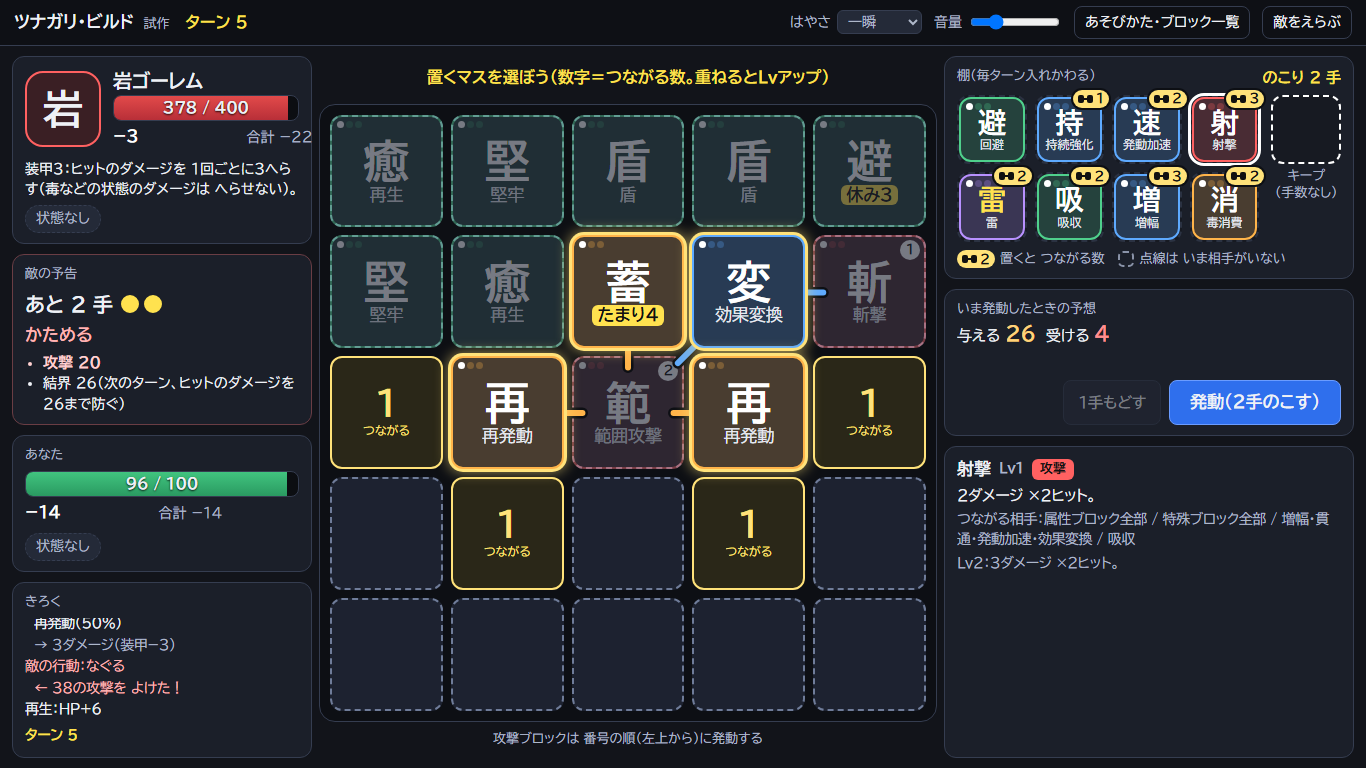
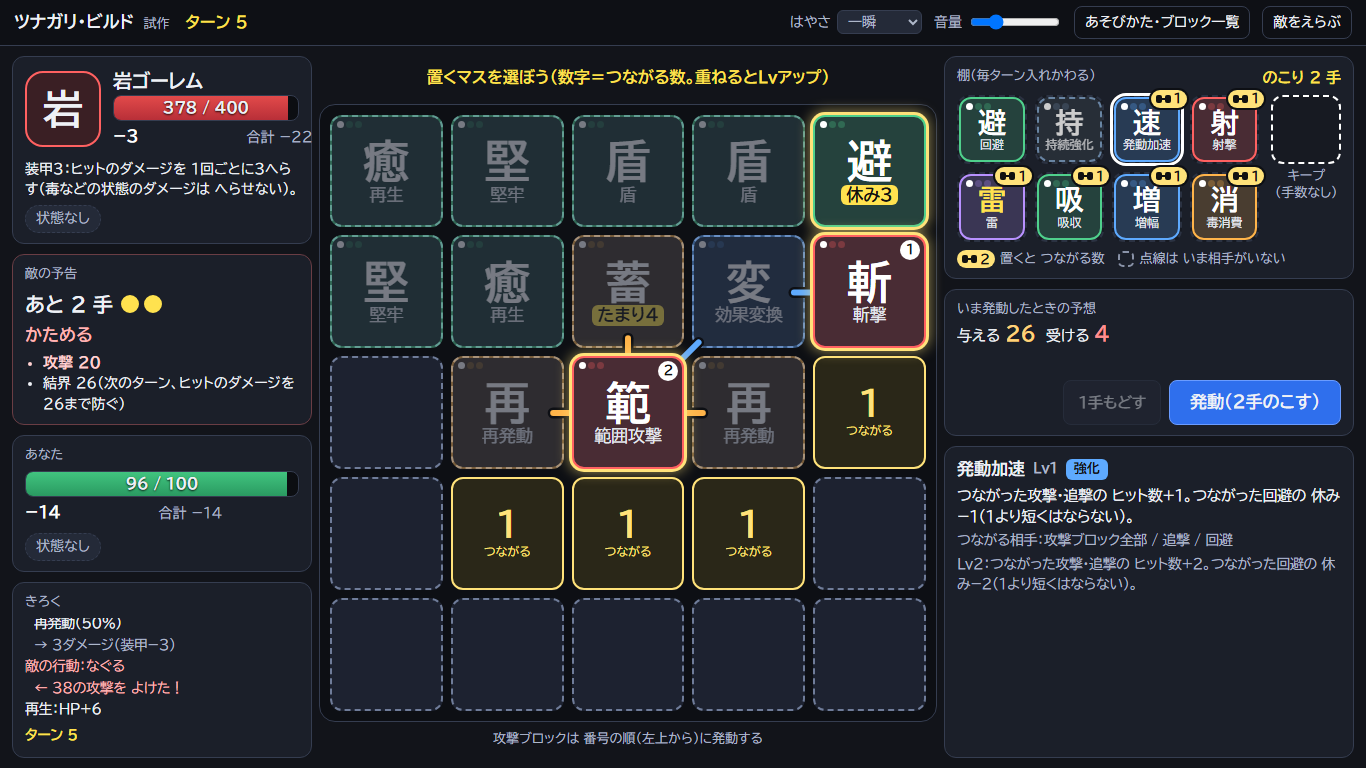
Codex レビュー（6779bd2）の指摘1〜5を直す
1 手数0のとき、置けないマスに「つながる」数字を出さない
2 数字を出すマスを rules.js の linkSpots / swapSpots で1か所に決める（空き・がれき。満杯なら置きかえ）
3 反射は盾とつながっているときだけ貫通との線を出す
4 封印中の札を選んだときは相手を光らせない
5 自動プレイの検査：光る相手・入れかえの予告・手数0 も毎回くらべる
tests 869/0、check 52/52

diff --git a/ui.js b/ui.js
@@ -151,23 +151,27 @@
   function markLinks() {
     for (const t of document.querySelectorAll('.tile.lk-mate, .tile.lk-dim')) t.classList.remove('lk-mate', 'lk-dim');
     for (const c of document.querySelectorAll('#board .cell.lk-good')) c.classList.remove('lk-good');
-    for (const m of document.querySelectorAll('#board .lk-spot')) m.remove();
+    for (const m of document.querySelectorAll('#board .lk-spot, #board .lk-pin')) m.remove();
     const pre = $('#links-pre'); if (pre) pre.innerHTML = '';
     const s = G.s; if (!s || G.busy || (s.phase !== 'place' && s.phase !== 'start')) return;
     const held = heldInfo();
     if (held) {
-      const type = held.src != null ? R.srcType(s, held.src) : (s.board[held.cell] && s.board[held.cell].type);
+      const hb = held.cell != null ? s.board[held.cell] : null;
+      const type = held.src != null ? R.srcType(s, held.src) : (hb && hb.type);
       if (!type) return;
+      const live = held.src != null || R.isActive(hb); // 封印中の札を選んだときは、相手を光らせない（いまは つながらない）
       for (let i = 0; i < R.N; i++) {
         if (held.cell === i) continue;
-        const b = s.board[i], c = cellEl(i);
-        if (b) {
-          const t = c.querySelector('.tile'); if (!t) continue;
-          if (R.isActive(b) && R.works(type, b.type)) t.classList.add('lk-mate'); else if (held.picked) t.classList.add('lk-dim');
-        } else {
-          const n = held.src != null ? R.linksIfPlaced(s.board, type, i).length : (R.canSwap(s, held.cell, i) ? R.linksIfSwapped(s.board, held.cell, i).length : 0);
-          if (n > 0) { c.classList.add('lk-good'); c.appendChild(el('div', 'lk-spot', `<b>${n}</b><span>つながる</span>`)); }
-        }
+        const b = s.board[i], t = b && cellEl(i).querySelector('.tile'); if (!t) continue;
+        if (live && R.isActive(b) && R.works(type, b.type)) t.classList.add('lk-mate'); else if (held.picked) t.classList.add('lk-dim');
+      }
+      // 数字を出すマスは rules.js が決める（空き・がれき。満杯のときは置きかえ）。置けないマス（手数0など）には出さない
+      const spots = held.src != null ? R.linkSpots(s.board, type) : R.swapSpots(s.board, held.cell);
+      for (const sp of spots) {
+        if (held.src != null ? !R.placeKind(s, held.src, sp.cell) : !R.canSwap(s, held.cell, sp.cell)) continue;
+        const c = cellEl(sp.cell); c.classList.add('lk-good');
+        if (s.board[sp.cell]) c.appendChild(el('span', 'lk lk-pin', `<i></i>${sp.n}`)); // 札があるマス（がれき・満杯のときの置きかえ）は小さい印
+        else c.appendChild(el('div', 'lk-spot', `<b>${sp.n}</b><span>つながる</span>`));
       }
     } else if (G.hoverInfo && G.hoverInfo.cell != null && R.isActive(s.board[G.hoverInfo.cell])) {
       // 盤面の札にマウスをのせたとき：棚の中の「この札につながる札」を光らせる
@@ -673,16 +677,44 @@
     // ?bot=random … でたらめに置くボット（負けの画面を確かめる用）
     const act = Bot.chooseAction(G.s, Q.get('bot') === 'random' ? { random: true, rand: autoRand, start: 'slash' } : { start: ['slash', 'shot', 'area'][G.seed % 3] });
     let ok = true;
+    const sorted = a => a.slice().sort((x, y) => x - y);
+    const shownAt = cell => { const m = cellEl(cell).querySelector('.lk-spot b, .lk-pin'); return m ? +m.textContent : 0; };
     if (act.type === 'place') {
-      const want = R.linksIfPlaced(G.s.board, R.srcType(G.s, act.src), act.cell).slice().sort((a, b) => a - b), wasEmpty = !G.s.board[act.cell];
+      const type = R.srcType(G.s, act.src), board = G.s.board;
+      const want = sorted(R.linksIfPlaced(board, type, act.cell)), spots = R.linkSpots(board, type);
+      const exp = (spots.find(x => x.cell === act.cell) || { n: 0 }).n; // このマスに出るはずの数字（数字を出さないマスなら0）
       G.sel = { src: act.src }; renderAll(); // 人が棚の札を選んだときと同じ表示を出す
-      const spot = cellEl(act.cell).querySelector('.lk-spot b'), shown = spot ? +spot.textContent : 0;
-      if (wasEmpty && shown !== want.length) CHECK.mismatches.push(`つながる数の表示 ${shown} / 計算 ${want.length}（マス${act.cell}）`);
+      if (shownAt(act.cell) !== exp) CHECK.mismatches.push(`つながる数の表示 ${shownAt(act.cell)} / 計算 ${exp}（マス${act.cell}）`);
+      // 数字のマスに置いたときの相手は、全部 光っていること
+      for (const sp of spots) for (const j of R.linksIfPlaced(board, type, sp.cell)) {
+        const t = cellEl(j).querySelector('.tile');
+        if (!t || !t.classList.contains('lk-mate')) CHECK.mismatches.push(`数字のマス${sp.cell}の相手（マス${j}）が光っていない`);
+      }
       sampleLayout();
       ok = doPlace(act.src, act.cell);
-      const got = ok ? G.derived.L[act.cell].slice().sort((a, b) => a - b) : want;
+      const got = ok ? sorted(G.derived.L[act.cell]) : want;
       if (String(got) !== String(want)) CHECK.mismatches.push(`置く前の予告と置いた後のつながりがちがう（マス${act.cell}）`);
-    } else if (act.type === 'swap') ok = doSwap(act.a, act.b); else ok = doEnd();
+    } else if (act.type === 'swap') {
+      const want = sorted(R.linksIfSwapped(G.s.board, act.a, act.b));
+      const exp = (R.swapSpots(G.s.board, act.a).find(x => x.cell === act.b) || { n: 0 }).n;
+      G.sel = { cell: act.a }; renderAll(); // 人が盤面の札を選んだときと同じ表示を出す
+      if (shownAt(act.b) !== exp) CHECK.mismatches.push(`入れかえの つながる数の表示 ${shownAt(act.b)} / 計算 ${exp}（マス${act.b}）`);
+      sampleLayout();
+      ok = doSwap(act.a, act.b);
+      const got = ok && G.s.board[act.b] ? sorted(G.derived.L[act.b]) : want;
+      if (String(got) !== String(want)) CHECK.mismatches.push(`入れかえる前の予告と、入れかえた後のつながりがちがう（マス${act.b}）`);
+    } else {
+      // 手数が0のとき：棚の札を選んでも、置けないマスに数字が出ないこと
+      const i = G.s.shop.findIndex(x => x);
+      if (G.s.phase === 'place' && G.s.moves === 0 && i >= 0) {
+        G.sel = { src: i }; renderAll();
+        const n = document.querySelectorAll('#board .lk-spot, #board .lk-pin').length;
+        if (n) CHECK.mismatches.push(`手数0なのに「つながる」数字が${n}マスに出ている`);
+        CHECK.zeroMoveChecks = (CHECK.zeroMoveChecks || 0) + 1;
+        G.sel = null; renderAll();
+      }
+      ok = doEnd();
+    }
     if (!ok) doEnd();
     setTimeout(autoStep, G.speed > 0 ? 250 : 0);
   }

diff --git a/rules.js b/rules.js
@@ -121,6 +121,15 @@
         L[a].push(b); L[b].push(a); links.push([a, b]);
       }
     }
+    // 反射は「盾とつながっているとき」だけ働く。盾がないときは、貫通との線を出さない（線が出ているのに働かない、をなくす）
+    for (let i = 0; i < N; i++) {
+      const b = board[i]; if (!isActive(b) || b.type !== 'mirror') continue;
+      if (L[i].some(j => board[j].type === 'shield')) continue;
+      for (const j of L[i].filter(k => board[k].type === 'pierce')) {
+        L[i].splice(L[i].indexOf(j), 1); L[j].splice(L[j].indexOf(i), 1);
+        const at = links.findIndex(p => (p[0] === i && p[1] === j) || (p[0] === j && p[1] === i)); if (at >= 0) links.splice(at, 1);
+      }
+    }
     const val = i => B[board[i].type].v[board[i].lv - 1];
     const ampOf = i => { let m = 1; const l = L[i]; for (let k = 0; k < l.length; k++) if (board[l[k]].type === 'amp') m += val(l[k]) / 100; return m; };
 
@@ -422,15 +431,30 @@
     const c = board.slice(), t = c[a]; c[a] = c[b]; c[b] = t;
     return c[b] ? derive(c).L[b].slice() : [];
   }
-  // type を いま置くなら、いちばん多くて何本つながるか（置けるマス全部の中で）。
-  function bestLinks(board, type) {
-    let best = 0;
-    for (let i = 0; i < N; i++) {
-      const b = board[i]; if (b && b.type === type && b.lv >= MAXLV) continue; // もう重ねられない
-      best = Math.max(best, linksIfPlaced(board, type, i).length);
-    }
-    return best;
+  // 置く前に「数字を出すマス」は、ここ1か所で決める（棚の数字も、盤面の数字も、ここから出す）。
+  //   空きマスと、がれきのマス。空きも がれきも ないとき（満杯）は、全部のマス（置きかえ・重ね）。
+  function spotCells(board) {
+    const open = [], all = [];
+    for (let i = 0; i < N; i++) { all.push(i); if (!board[i] || board[i].type === 'rubble') open.push(i); }
+    return open.length ? open : all;
   }
+  // type を置くと つながるマスと、その数。[{ cell, n }]
+  function linkSpots(board, type) {
+    const out = [];
+    for (const i of spotCells(board)) {
+      const b = board[i]; if (b && b.type === type && b.lv >= MAXLV) continue; // もう重ねられない
+      const n = linksIfPlaced(board, type, i).length; if (n > 0) out.push({ cell: i, n });
+    }
+    return out;
+  }
+  // 盤面の a のブロックを動かすと つながるマスと、その数。封印中のブロックは、動かしても つながらない。
+  function swapSpots(board, a) {
+    const out = []; if (!isActive(board[a])) return out;
+    for (const i of spotCells(board)) { if (i === a) continue; const n = linksIfSwapped(board, a, i).length; if (n > 0) out.push({ cell: i, n }); }
+    return out;
+  }
+  // type を いま置くなら、いちばん多くて何本つながるか（linkSpots の中で）。
+  function bestLinks(board, type) { let m = 0; for (const x of linkSpots(board, type)) m = Math.max(m, x.n); return m; }
 
   // キープ：棚のブロックを1個とっておく（手数を使わない）
   function toKeep(s, idx) {
@@ -587,7 +611,7 @@
     B, TYPES, FAMS, STATUS_NAMES, ENEMIES, ENEMY_IDS, NEAR4, NEAR8,
     needsLink, blockText, works, isActive, mk, derive, attackLines, intentLines, fmt,
     newGame, cloneState, beginTurn, makeIntent, srcType, placeKind, place, canSwap, swap, toKeep,
-    linksIfPlaced, linksIfSwapped, bestLinks,
+    linksIfPlaced, linksIfSwapped, linkSpots, swapSpots, bestLinks,
     resolve, endTurn, forecast,
   };
 });

diff --git a/tests.js b/tests.js
@@ -196,6 +196,34 @@ for (const a of R.TYPES) for (const b of R.TYPES) {
   eq('入れかえる前：毒を遠くへ → つながらない', R.linksIfSwapped(sw, 0, 24), []);
   eq('入れかえる前：毒と斬撃を入れかえると、はなれる', R.linksIfSwapped(sw, 0, 12), []);
 }
+// 数字を出すマス（linkSpots / swapSpots）：空き・がれき。満杯のときは置きかえ
+{
+  const cells = a => a.map(x => x.cell).sort((x, y) => x - y);
+  eq('数字のマス：空きマスだけ（札のあるマスは出さない）', cells(R.linkSpots(setup({ 12: 'slash', 13: 'shield' }).board, 'poison')), [7, 11, 17]);
+  eq('数字のマス：がれきのマスは出す', cells(R.linkSpots(setup({ 12: 'slash', 13: 'rubble' }).board, 'poison')), [7, 11, 13, 17]);
+  const full = {}; for (let i = 0; i < R.N; i++) full[i] = 'shield'; full[12] = 'slash';
+  eq('数字のマス：満杯のときは、置きかえで つながるマスを出す', cells(R.linkSpots(setup(full).board, 'poison')), [7, 11, 13, 17]);
+  eq('満杯でも、いちばん多い数が出る', R.bestLinks(setup(full).board, 'poison'), 1);
+  const fullRub = Object.assign({}, full, { 13: 'rubble' });
+  eq('数字のマス：ほかが満杯で がれきが1つ → がれきのマスだけ', R.linkSpots(setup(fullRub).board, 'poison'), [{ cell: 13, n: 1 }]);
+  const full3 = Object.assign({}, full, { 13: 'poison3' });
+  ok('数字のマス：満杯で、Lv3の同じ種類のマスは出さない', cells(R.linkSpots(setup(full3).board, 'poison')).indexOf(13) < 0);
+  eq('入れかえの数字のマス', cells(R.swapSpots(setup({ 12: 'slash', 0: 'poison' }).board, 0)), [7, 11, 13, 17]);
+  const sealed = setup({ 12: 'slash', 0: 'poison' }).board; sealed[0].sealed = 2;
+  eq('入れかえの数字のマス：封印中の札は出さない', R.swapSpots(sealed, 0), []);
+}
+// 反射は、盾とつながっているときだけ働く。盾がないとき、貫通との線は出ない
+{
+  const a = R.derive(setup({ 12: 'pierce', 13: 'mirror' }).board);
+  eq('反射＋貫通だけ → 線なし', a.links, []);
+  eq('反射＋貫通だけ → 反射は0', a.reflect, 0);
+  eq('置く前：反射を貫通のとなりに → つながらない', R.linksIfPlaced(setup({ 12: 'pierce' }).board, 'mirror', 13), []);
+  const b = R.derive(setup({ 12: 'pierce', 13: 'mirror', 14: 'shield' }).board);
+  eq('反射＋盾＋貫通 → 反射は両方とつながる', b.L[13].slice().sort((x, y) => x - y), [12, 14]);
+  ok('反射＋盾＋貫通 → 反射が働き、装甲を無視する', b.reflect > 0 && b.reflectPierce === true);
+  const c = R.derive(setup({ 13: 'mirror', 14: 'shield' }).board);
+  eq('反射＋盾 → つながる', c.L[13], [14]);
+}
 // 画面に出す線（links）と、計算に使うつながりは同じもの
 { const s = setup({ 12: 'area', 18: 'amp', 13: 'poison', 14: 'sustain', 7: 'haste', 2: 'dodge', 0: 'shield', 1: 'mirror' }); const d = R.derive(s.board);
   const key = l => l.map(p => p.join('-')).sort().join(' ');

diff --git a/check.js b/check.js
@@ -81,6 +81,7 @@ async function main() {
       if (!c.title && !c.stop && !(k.done && k.result && (k.result.phase === 'won' || k.result.phase === 'lost'))) bad.push('決着まで行かなかった');
       if (c.stop && !k.stopped && !k.done) bad.push('止まる所まで行かなかった');
       if (c.lose && !(k.result && k.result.phase === 'lost')) bad.push('負けの画面を確かめられなかった（負けなかった）');
+      if (!c.title && !c.stop && !c.lose && !(k.zeroMoveChecks > 0)) bad.push('手数0のときの「つながる」表示の検査が、1回も動かなかった');
       if (c.pick && !(k.picked && k.picked.mates > 0 && k.picked.spots > 0)) bad.push('つながる相手の表示が出ていない（光る札・数字のマスがない）');
       if (k.mismatches.length) bad.push('表示と計算のずれ ' + k.mismatches.slice(0, 3).join(' / '));
       const L = k.layout;

diff --git a/style.css b/style.css
@@ -151,6 +151,7 @@ button, select, input { font: inherit; color: inherit; }
 .lk i::before { left: 0; } .lk i::after { right: 0; }
 .slot > .lk { position: absolute; top: -7px; right: -7px; z-index: 3; box-shadow: 0 0 0 2px #0d0f14; pointer-events: none; }
 .cell.lk-good { border: 2px solid #ffe27a; background: #2a2718; }
+.cell > .lk-pin { position: absolute; bottom: -7px; right: -7px; z-index: 3; box-shadow: 0 0 0 2px #0d0f14; pointer-events: none; }
 .lk-spot { position: absolute; inset: 0; display: flex; flex-direction: column; align-items: center; justify-content: center; gap: 2px; pointer-events: none; color: #ffe27a; }
 .lk-spot b { font-size: calc(var(--cell) * .3); line-height: 1; }
 .lk-spot span { font-size: 12px; line-height: 1.2; white-space: nowrap; }

diff --git a/reviews/20261113-0053-6779bd2.md b/reviews/20261113-0053-6779bd2.md
@@ -1,0 +1,46 @@
+# 独立レビュー（Codex） 20261113-0053
+
+- 状態: 完了
+- 対象commit: `6779bd2750df5827c805431b8b1ea47d528d53d6`
+- 見た範囲: c6a7425..6779bd2
+- repo / branch: https://github.com/usouso/tunagari.git / main
+- 制作担当 / 独立担当: Claude / Codex（codex-cli 0.157.1、model gpt-6-sol）
+- model のやり直し: Codex の設定の model → 使えない（The 'gpt-6.1-sol' model is not supported when using Codex with a ChatGPT account.）
+- 命令: `codex exec --sandbox read-only --ephemeral`（対象commitの隔離したコピーの中で実行。頼む文は review.js が作る）
+- 終了コード: 0 / かかった時間: 264秒
+- 対象の外: 画面の見え方と通常入力（別の工程）
+- 受け取り: 受け取った（Claude、2026-11-13）。指摘1〜5は全部そのとおりだったので、次の commit で直した。質問への答え：反射と貫通だけの線は意図していなかった。盾がないときは線を出さないようにした。
+
+---
+
+## 判定
+
+**要修正（軽いものだけ）**。対象 commit `6779bd2750df5827c805431b8b1ea47d528d53d6` のテストは全件通りましたが、新しい「つながる」表示に、置けない場所を示す場合と、置ける場所を示さない場合があります。重大な停止や計算の破綻は、今回の範囲では確認していません。
+
+## 読んだ確認
+
+共通標準 **v1.2**、`REVIEW-PROCEDURE.md`、`HANDOFF-TEMPLATE.md` を `C:\Users\nonus\dev\tunagari\docs\game-development` で **2026-11-13 00:57 JST** に読みました。隔離コピーの `AGENTS.md`、`CLAUDE.md`、`REPORT.md` も確認しました。
+
+## 実行したこと
+
+- `git diff c6a7425..6779bd2` と関連コードを確認。`git status --short` は空でした。
+- `node tests.js`：**終了コード 0、合格 855、失敗 0**。
+- 読み取り用の `node -e` で、下表の盤面に対する `placeKind`、`linksIfPlaced`、`derive` の値を確認しました。
+
+## 指摘
+
+| 番号 | 重要度 | 場所 | 内容 | 再現のしかた | 直し方の案 |
+|---|---|---|---|---|---|
+| 1 | 中 | `ui.js:168`, `ui.js:541` | 手数が 0 でも、棚の札を選ぶと置けない空きマスに「つながる」数字が出る。 | ゴーレム、seed 1 の1ターン目で手数を使い切る。残った吸収札はマス0への予告が1本だが、`placeKind` は `null`。 | 数字を出す前に `placeKind` を確認する。手数0の操作を `check.js` に加える。 |
+| 2 | 中 | `ui.js:162-170`, `rules.js:426` | 盤面が満杯になると、置きかえでつながるマスがあっても数字が一つも出ない。棚の最大数と盤面表示が対応しない。 | 25マスを埋め、12に斬撃、13にがれきを置く。毒は13へ置きかえ可能で1本つながるが、空きマスがないため数字は出ない。 | 置きかえ・レベルアップ可能なマスにも予告を表示する。満杯の盤面を検査に加える。 |
+| 3 | 中 | `rules.js:62`, `rules.js:85`, `rules.js:152-155` | 反射は「盾とつなぐと働く」と書かれているが、貫通だけとつながっても線と予告数が出て、反射値は0のまま。 | 12に貫通、13に反射を置くと、予告・実際の線は1本、`derive().reflect` は0。 | 線を「働いている」印として使うなら、反射の稼働判定を表示へ反映する。この組合せをテストする。 |
+| 4 | 軽 | `ui.js:166` | 封印中の盤面札を選んでも、相性のよい札が光る。封印中の札は今はつながらない。 | 12の封印中の斬撃を選び、13に毒を置く。毒は光る判定だが、封印中の斬撃のつながりは空。 | 選択した札にも `isActive` を適用し、封印中の選択を検査する。 |
+| 5 | 軽 | `check.js:81`, `ui.js:676-684` | 新しい画面検査は、光る札と数字のマスが「ある」ことを数えるが、光った相手が正しいか、入れかえ時の予告が正しいかは判定しない。 | 検査コード上、`mates > 0` と `spots > 0` の確認にとどまり、置いた後との比較も棚から置く場合だけ。 | 相手のマス番号と予告線を `derive` の結果と照合し、入れかえも対象にする。 |
+
+## 確かめられなかったこと
+
+`node check.js`、画面の見え方、文字の読みやすさ・重なり、通常入力での通し操作は今回の対象外なので未確認です。CSS の新しい文字表示について画面上の合格とは判定していません。
+
+## 制作担当への質問
+
+反射と貫通だけの線は、盾がなくても表示する意図でしょうか。線を「今働いている」印とする説明に合わせて、表示か説明の整理が必要です。

diff --git a/reviews/20261113-0051-9aac321.md b/reviews/20261113-0051-9aac321.md
@@ -8,7 +8,7 @@
 - 命令: `codex exec --sandbox read-only --ephemeral`（対象commitの隔離したコピーの中で実行。頼む文は review.js が作る）
 - 終了コード: 1 / かかった時間: 4秒
 - 対象の外: 画面の見え方と通常入力（別の工程）
-- 受け取り: 未（制作担当が読んだら、ここを「受け取った・日付」に書きかえる）
+- 受け取り: 受け取った（Claude、2026-11-13）。Codex の設定の model（gpt-6.1-sol）が このアカウントで使えず、答えなし。review.js を、使える model でやり直すように直した。
 
 ---
 
